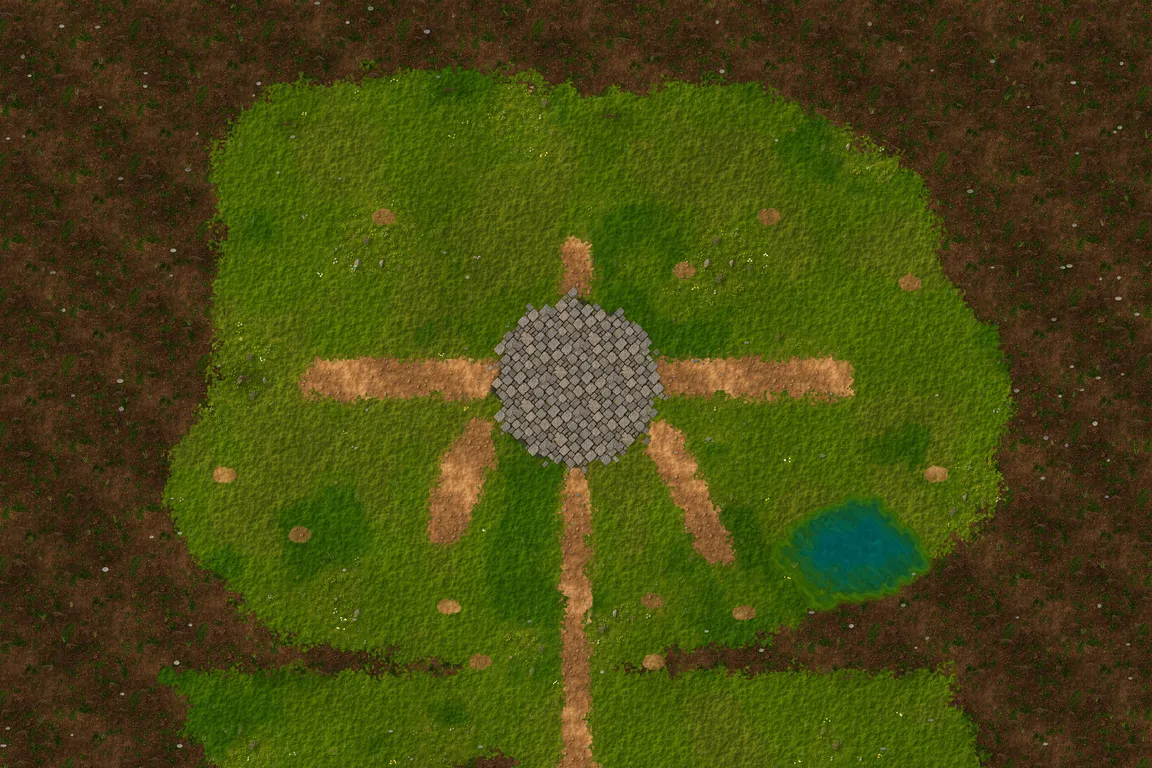
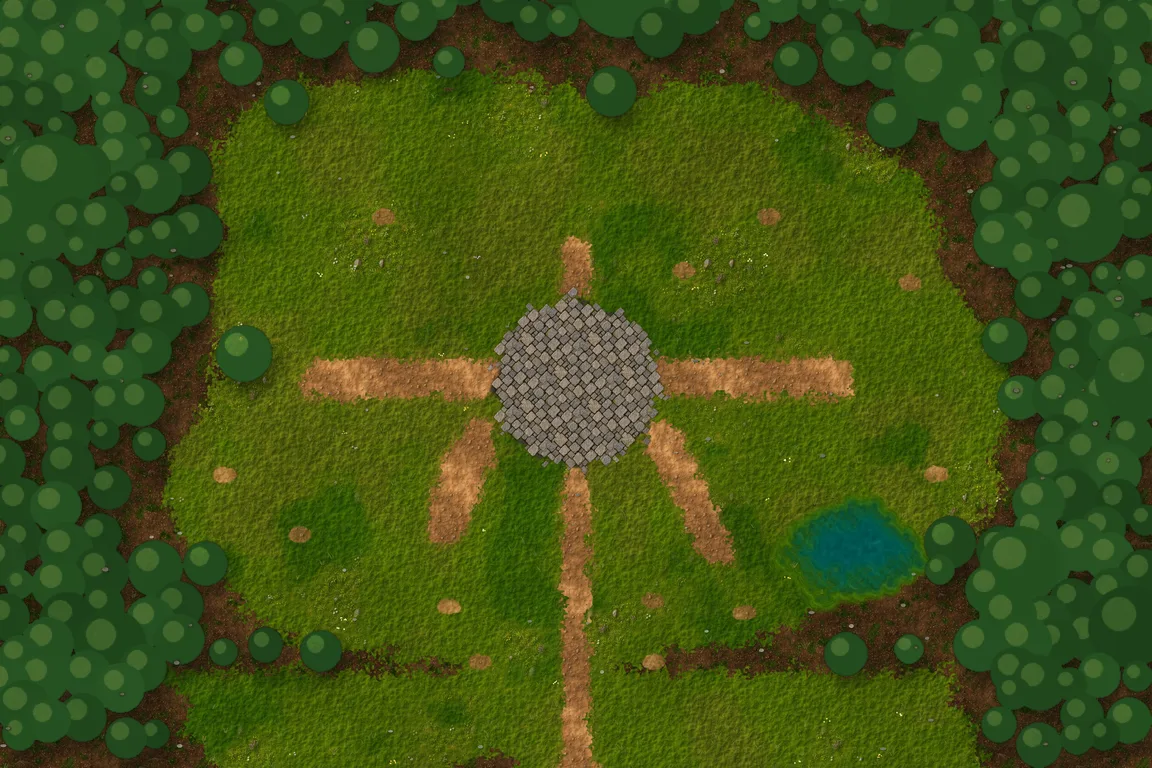
Minimap und Übersichtskarten: Wald mit Baumkronen sichtbar, Wege bleiben frei (werkzeug/welt/karte.py, im Bauablauf der Welt)

diff --git a/realtime/werkzeug/welt/karte.py b/realtime/werkzeug/welt/karte.py
@@ -1,0 +1,63 @@
+#!/usr/bin/env python3
+"""World Pipeline – Übersichtskarte (Minimap) einer Region: der gebackene Boden plus die Baumkronen, damit der Wald als Wald erkennbar ist.
+
+Liest die fertigen Chunks aus echtzeit/welt (Bodenbild und Objekte) und schreibt echtzeit/welt/karte-<region>.webp
+(dieselbe Größe wie bisher aus boden.py --vorschau: 8 bzw. 4 Bildpunkte je Feld geteilt durch … – siehe MASSSTAB).
+Bäume werden von oben als Kronen gezeichnet (dunkles Grün mit Licht von links oben und Schatten), alles andere bleibt wie der Boden.
+Aufruf (im Ordner realtime): python3 werkzeug/welt/karte.py <region> [<region> …]   ·   ohne Region: alle Regionen der Welt
+"""
+import json, math, os, random, sys
+from PIL import Image, ImageDraw, ImageFilter
+
+WURZEL = os.path.normpath(os.path.join(os.path.dirname(os.path.abspath(__file__)), '..', '..', '..'))
+WELT = os.path.join(WURZEL, 'echtzeit', 'welt')
+FELD, CHUNK = 48, 32
+
+
+def karte(rid, index):
+    R = index['regionen'][rid]['region']; (ux, uy), (cb, ch) = R['ursprung'], R['chunks']; OBJ = index['objekte']
+    k = 4 if max(cb, ch) <= 4 else 8                      # wie boden.py: kleine Regionen feiner
+    n = CHUNK * FELD // k; pf = n / CHUNK                 # Bildpunkte je Chunk und je Feld
+    bild = Image.new('RGB', (cb * n, ch * n), (40, 34, 24)); baeume = []
+    for cy in range(ch):
+        for cx in range(cb):
+            p = os.path.join(WELT, f'{ux + cx}_{uy + cy}.json')
+            if not os.path.exists(p): continue
+            d = json.load(open(p)); bild.paste(Image.open(os.path.join(WELT, d['boden'])).convert('RGB').resize((n, n), Image.LANCZOS), (cx * n, cy * n))
+            for o in d.get('objekte', []):
+                D = OBJ.get(o['objekt'])
+                if D and o['objekt'].startswith('wald_baum'): baeume.append((o, D))
+    # Kronen: Mitte etwas über dem Fuß (das Bild steht auf dem Fuß), Größe aus der Bildbreite
+    schatten = Image.new('L', bild.size, 0); kronen = Image.new('RGBA', bild.size, (0, 0, 0, 0))
+    ds, dk = ImageDraw.Draw(schatten), ImageDraw.Draw(kronen); rnd = random.Random(7)
+    baeume.sort(key=lambda t: t[0]['y'])
+    for o, D in baeume:
+        s = o.get('s', 1) * D.get('massstab', 1); w, h = D['groesse']; x = (o['x'] - ux * CHUNK) * pf; y = (o['y'] - uy * CHUNK) * pf
+        r = max(2.0, 0.27 * w * s / FELD * pf); my = y - 0.30 * h * s / FELD * pf
+        ds.ellipse([x - r + r * 0.35, my - r + r * 0.45, x + r + r * 0.35, my + r + r * 0.45], fill=150)          # Schatten nach rechts unten
+        g = rnd.randint(-10, 10); grund = (34 + g // 2, 74 + g, 30 + g // 2)
+        dk.ellipse([x - r, my - r, x + r, my + r], fill=grund + (255,))
+        rl = r * 0.62; dk.ellipse([x - r * 0.55 - rl * 0.2, my - r * 0.6 - rl * 0.2, x - r * 0.55 + rl * 1.1, my - r * 0.6 + rl * 1.1], fill=(70 + g, 120 + g, 52 + g // 2, 200))   # Licht von links oben
+    schatten = schatten.filter(ImageFilter.GaussianBlur(max(1.5, pf * 0.6)))
+    bild = Image.composite(Image.new('RGB', bild.size, (12, 14, 8)), bild, schatten.point(lambda v: v * 0.55))
+    kronen = kronen.filter(ImageFilter.GaussianBlur(0.6))
+    # Wege bleiben lesbar: wo der Boden sandig (Feldweg) oder steingrau (Steinweg) ist, wird die Krone ausgespart
+    hell = bild.convert('HSV'); weg = Image.new('L', bild.size, 0); px, hp, wp = bild.load(), hell.load(), weg.load()
+    for j in range(bild.size[1]):
+        for i in range(bild.size[0]):
+            r_, g_, b_ = px[i, j]; hh, ss, vv = hp[i, j]
+            if (vv > 120 and 10 < hh < 40 and ss > 70 and r_ > g_ + 15) or (ss < 40 and vv > 105): wp[i, j] = 255
+    weg = weg.filter(ImageFilter.MaxFilter(3)).filter(ImageFilter.GaussianBlur(1))
+    alpha = kronen.split()[3]; alpha = Image.composite(Image.new('L', bild.size, 0), alpha, weg); kronen.putalpha(alpha)
+    bild.paste(kronen, (0, 0), kronen)
+    ziel = os.path.join(WELT, f'karte-{rid}.webp'); bild.save(ziel, quality=82)
+    print(f'  karte-{rid}.webp: {bild.size[0]}×{bild.size[1]}, {len(baeume)} Bäume')
+
+
+def main():
+    index = json.load(open(os.path.join(WELT, 'welt.json')))
+    for rid in (sys.argv[1:] or list(index['regionen'])): karte(rid, index)
+
+
+if __name__ == '__main__':
+    main()
